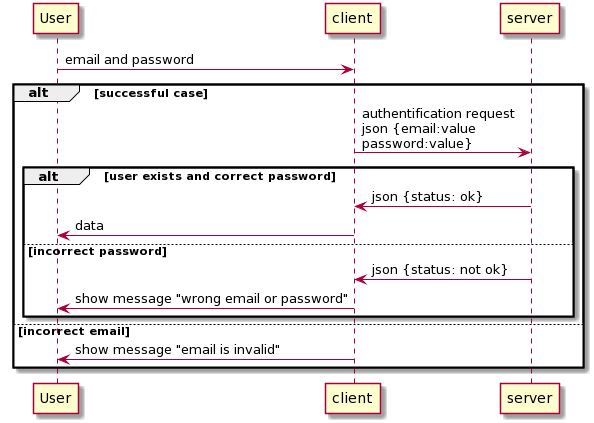
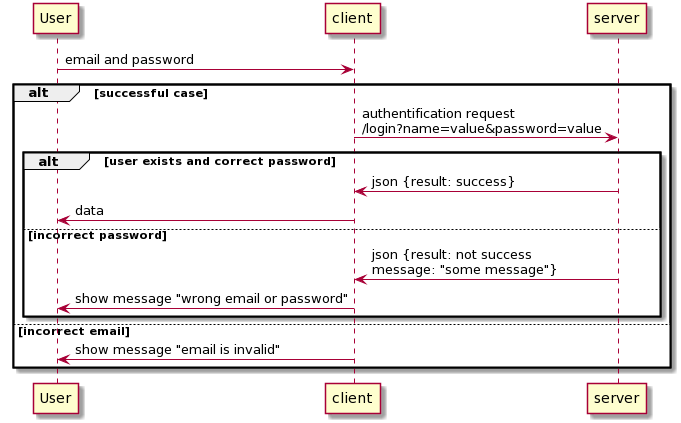
Updated forms design Updated doc Updated form methods

diff --git a/app.component/Index.html b/app.component/Index.html
@@ -86,12 +86,18 @@
                 <div class="card-body">
                     <hr>
                     <dl>
-                        <dt class="modal-label"><label class="modal-label">Email adress</label></dt>
-                        <input class="modal-input">
+                        <dt class="modal-label"><label class="modal-label"><div class="words">Email adress</div></label></dt>
+                        <input class="modal-input"
+                        id="email"
+                        name="name"
+                        >
                     </dl>
                     <dl>
-                        <dt class="modal-label"><label class="modal-label">Password</label></dt>
-                        <input class="modal-input">
+                        <dt class="modal-label"><label class="modal-label"><div class="words">Password</div></label></dt>
+                        <input class="modal-input"
+                            id="email"
+                            name="password"
+                            >
                     </dl>
                     <hr>
                     <div class="place-for-buttons">
@@ -124,13 +130,19 @@
                 <div class="card-body">
                     <hr>
                     <dl>
-                        <dt class="modal-label"><label class="modal-label">Email</label></dt>
-                        <input class="modal-input">
+                        <dt class="modal-label"><label class="modal-label"><div class="words">Email</div></label></dt>
+                        <input class="modal-input"
+                            id="email"
+                            name="name"
+                            >
 
-                        <dt class="modal-label"><label class="modal-label">Password</label></dt>
-                        <input class="modal-input">
+                        <dt class="modal-label"><label class="modal-label"><div class="words">Password</div></div></label></dt>
+                        <input class="modal-input"
+                            id="password"
+                            name="password"
+                            >
 
-                        <dt class="modal-label"><label class="modal-label">Repeat Password</label></dt>
+                        <dt class="modal-label"><label class="modal-label"><div class="words">Repeat Password</div></label></dt>
                         <input class="modal-input">
                     </dl>
                     <hr>
@@ -151,7 +163,6 @@
                             Sign up
                         </button>
                     </div>
-                </div>
             </form>
         </div>
     </div>

diff --git a/app.component/formExecution.js b/app.component/formExecution.js
@@ -1,14 +1,9 @@
 document.addEventListener('DOMContentLoaded', () => {
     const ajaxSend = (formData) => {
-        fetch('http://localhost:8080/login', { // файл-обработчик
+        fetch(`http://localhost:8080/login?${formData}`, { // файл-обработчик
             credentials: "include", 
-            method: 'POST',
-            headers: {
-                'Content-Type': 'application/json', // отправляемые данные 
-                
-            },
+            method: 'GET',
             mode: 'no-cors',
-            body: JSON.stringify(formData)
             })
             .then((response) => console.log(response.json())
             )
@@ -27,21 +22,20 @@ document.addEventListener('DOMContentLoaded', () => {
     
         let formData = new FormData(this);
         formData = Object.fromEntries(formData);
+
+        let query = Object.keys(formData)
+                                .map(k => encodeURIComponent(k) + "=" + encodeURIComponent(formData[k]))
+                                .join('&');
     
-        ajaxSend(formData);
+        ajaxSend(query);
         this.reset();
     });
 
     const ajaxSignUp = (formData) => {
-        fetch('http://localhost:8080/register', { // файл-обработчик
+        fetch(`http://localhost:8080/register?${formData}`, { // файл-обработчик
             credentials: "include", 
-            method: 'POST',
-            headers: {
-                'Content-Type': 'application/json', // отправляемые данные 
-                
-            },
+            method: 'GET',
             mode: 'no-cors',
-            body: JSON.stringify(formData)
             })
             .then((response) => console.log(response.json())
             )
@@ -62,7 +56,11 @@ document.addEventListener('DOMContentLoaded', () => {
         let formData = new FormData(this);
         formData = Object.fromEntries(formData)
 
-        ajaxSignUp(formData)
+        let query = Object.keys(formData)
+                        .map(k => encodeURIComponent(k) + "=" + encodeURIComponent(formData[k]))
+                        .join('&');
+
+        ajaxSignUp(query)
         this.reset();
 
     })

diff --git a/app.component/Style.css b/app.component/Style.css
@@ -218,28 +218,35 @@ padding-right: 2px;
   bottom: 0;
   background-color: rgba(19, 24, 20, 0.8);
   display: none;
+  -moz-background-size: 100%; /* Firefox 3.6+ */
+  -webkit-background-size: 100%; /* Safari 3.1+ и Chrome 4.0+ */
+  -o-background-size: 100%; /* Opera 9.6+ */
+  background-size: 100%; /* Современные браузеры */
+  margin: 0;
 }
 
 .fade-block--visible {
   display:block;
 }
 
-
 .modal-window {
   position: absolute;
   left: 50%;
   top: 50%;
-  height: 40%;
-  width: 30%;
+  height: 60%;
+  width: 40%;
   transform: translate(-50%, -50%);
 }
 
 .card {
   height:100%;
-  width: 70%;
-  background-color: rgba(0, 0, 0, 0.808);
+  width: 80%;
   border-radius: 10px;
-
+  background-color: #d3dfe9;
+  font-family: 'Satisfy', cursive;
+  font-size: 50%;
+  text-align: center;
+  margin: auto 0 0 0;
 }
 
 .modal-button {
@@ -247,14 +254,25 @@ padding-right: 2px;
 }
 
 .modal-label {
-  color: white;
+  color: black;
   text-align: center;
+  font-size: 28px;
+}background-color: #d3dfe9;
+font-family: 'Satisfy', cursive;
+font-size: 50%;
+text-align: center;
+margin: auto 0 0 0;
+
+.words{
+  color: #285063;
+  text-align: center;
+  font-size: medium;
+  font-family: 'Ruda', sans-serif;
 }
 
 .modal-input {
   border-radius: 10px;
   width: 70%;
-  margin-left:15%;
 }
 
 .place-for-buttons {
@@ -266,9 +284,18 @@ padding-right: 2px;
 }
 
 .button-close {
-  background-color: black;
-  color: white;
-  border-radius: 50px;
+  padding: 10px 20px;
+  text-decoration: none;
+  border-radius: 30%;
+  background-color: #9cbbd4;
+  color: #285063;
+  text-align: center;
+  font-size: medium;
+  font-family: 'Ruda', sans-serif;
+}
+
+.button-close :hover {
+  background-color: #083b47;
 }
 
 .graph {

diff --git a/doc/useCases.md b/doc/useCases.md
@@ -13,13 +13,13 @@ Unauthorised user makes an attempt to enter into account.
 @startuml
 User -> client : email and password
 alt successful case
-    client -> server : authentification request\njson {email:value\npassword:value}
+    client -> server : authentification request\n/login?name=value&password=value
 
     alt user exists and correct password
-        server -> client : json {status: ok}
+        server -> client : json {result: success}
         client -> User : data
     else incorrect password
-        server -> client : json {status: not ok}
+        server -> client : json {result: not success\nmessage: "some message"}
         client -> User : show message "wrong email or password"
     end
 
@@ -41,7 +41,7 @@ end
 ### API
 method | request | response
 --- | --- | --- |
-POST /login | {email: value,password:value} | {status: ok/not ok}
+GET /login?name=value&password=value | none | {result: success/not success, message: "error message"}
  
 ## Log On
 Unauthorised user makes an attempt to make an account
@@ -57,13 +57,13 @@ Unauthorised user makes an attempt to make an account
 User -> client : email and password
 alt email is ok and passwords are correct 
 
-    client -> server : registration request\njson{email:value\npassword:value}
+    client -> server : registration request\n/register?name=value&password=value
     alt user does not exist
-        server -> client : json {status : ok}
+        server -> client : json {result : success}
         client -> User : user successfully created
     else user exists
-        server -> client : json {status : not ok}
-        client -> User : show messag "user already exists"
+        server -> client : json {result : not success\nmessage: "error message"}
+        client -> User : show message "user already exists"
     end
 else passwords are not match
     client -> User : show message "passwords are not match"
@@ -85,7 +85,7 @@ end
 ### API
 method | request | response
 --- | --- | --- |
-POST /register | {email: value,password:value} | {status: ok/not ok}
+GET /register?name=value&password=value | none | {result: success/not success message: "error message"}
 
 
 ## Search
